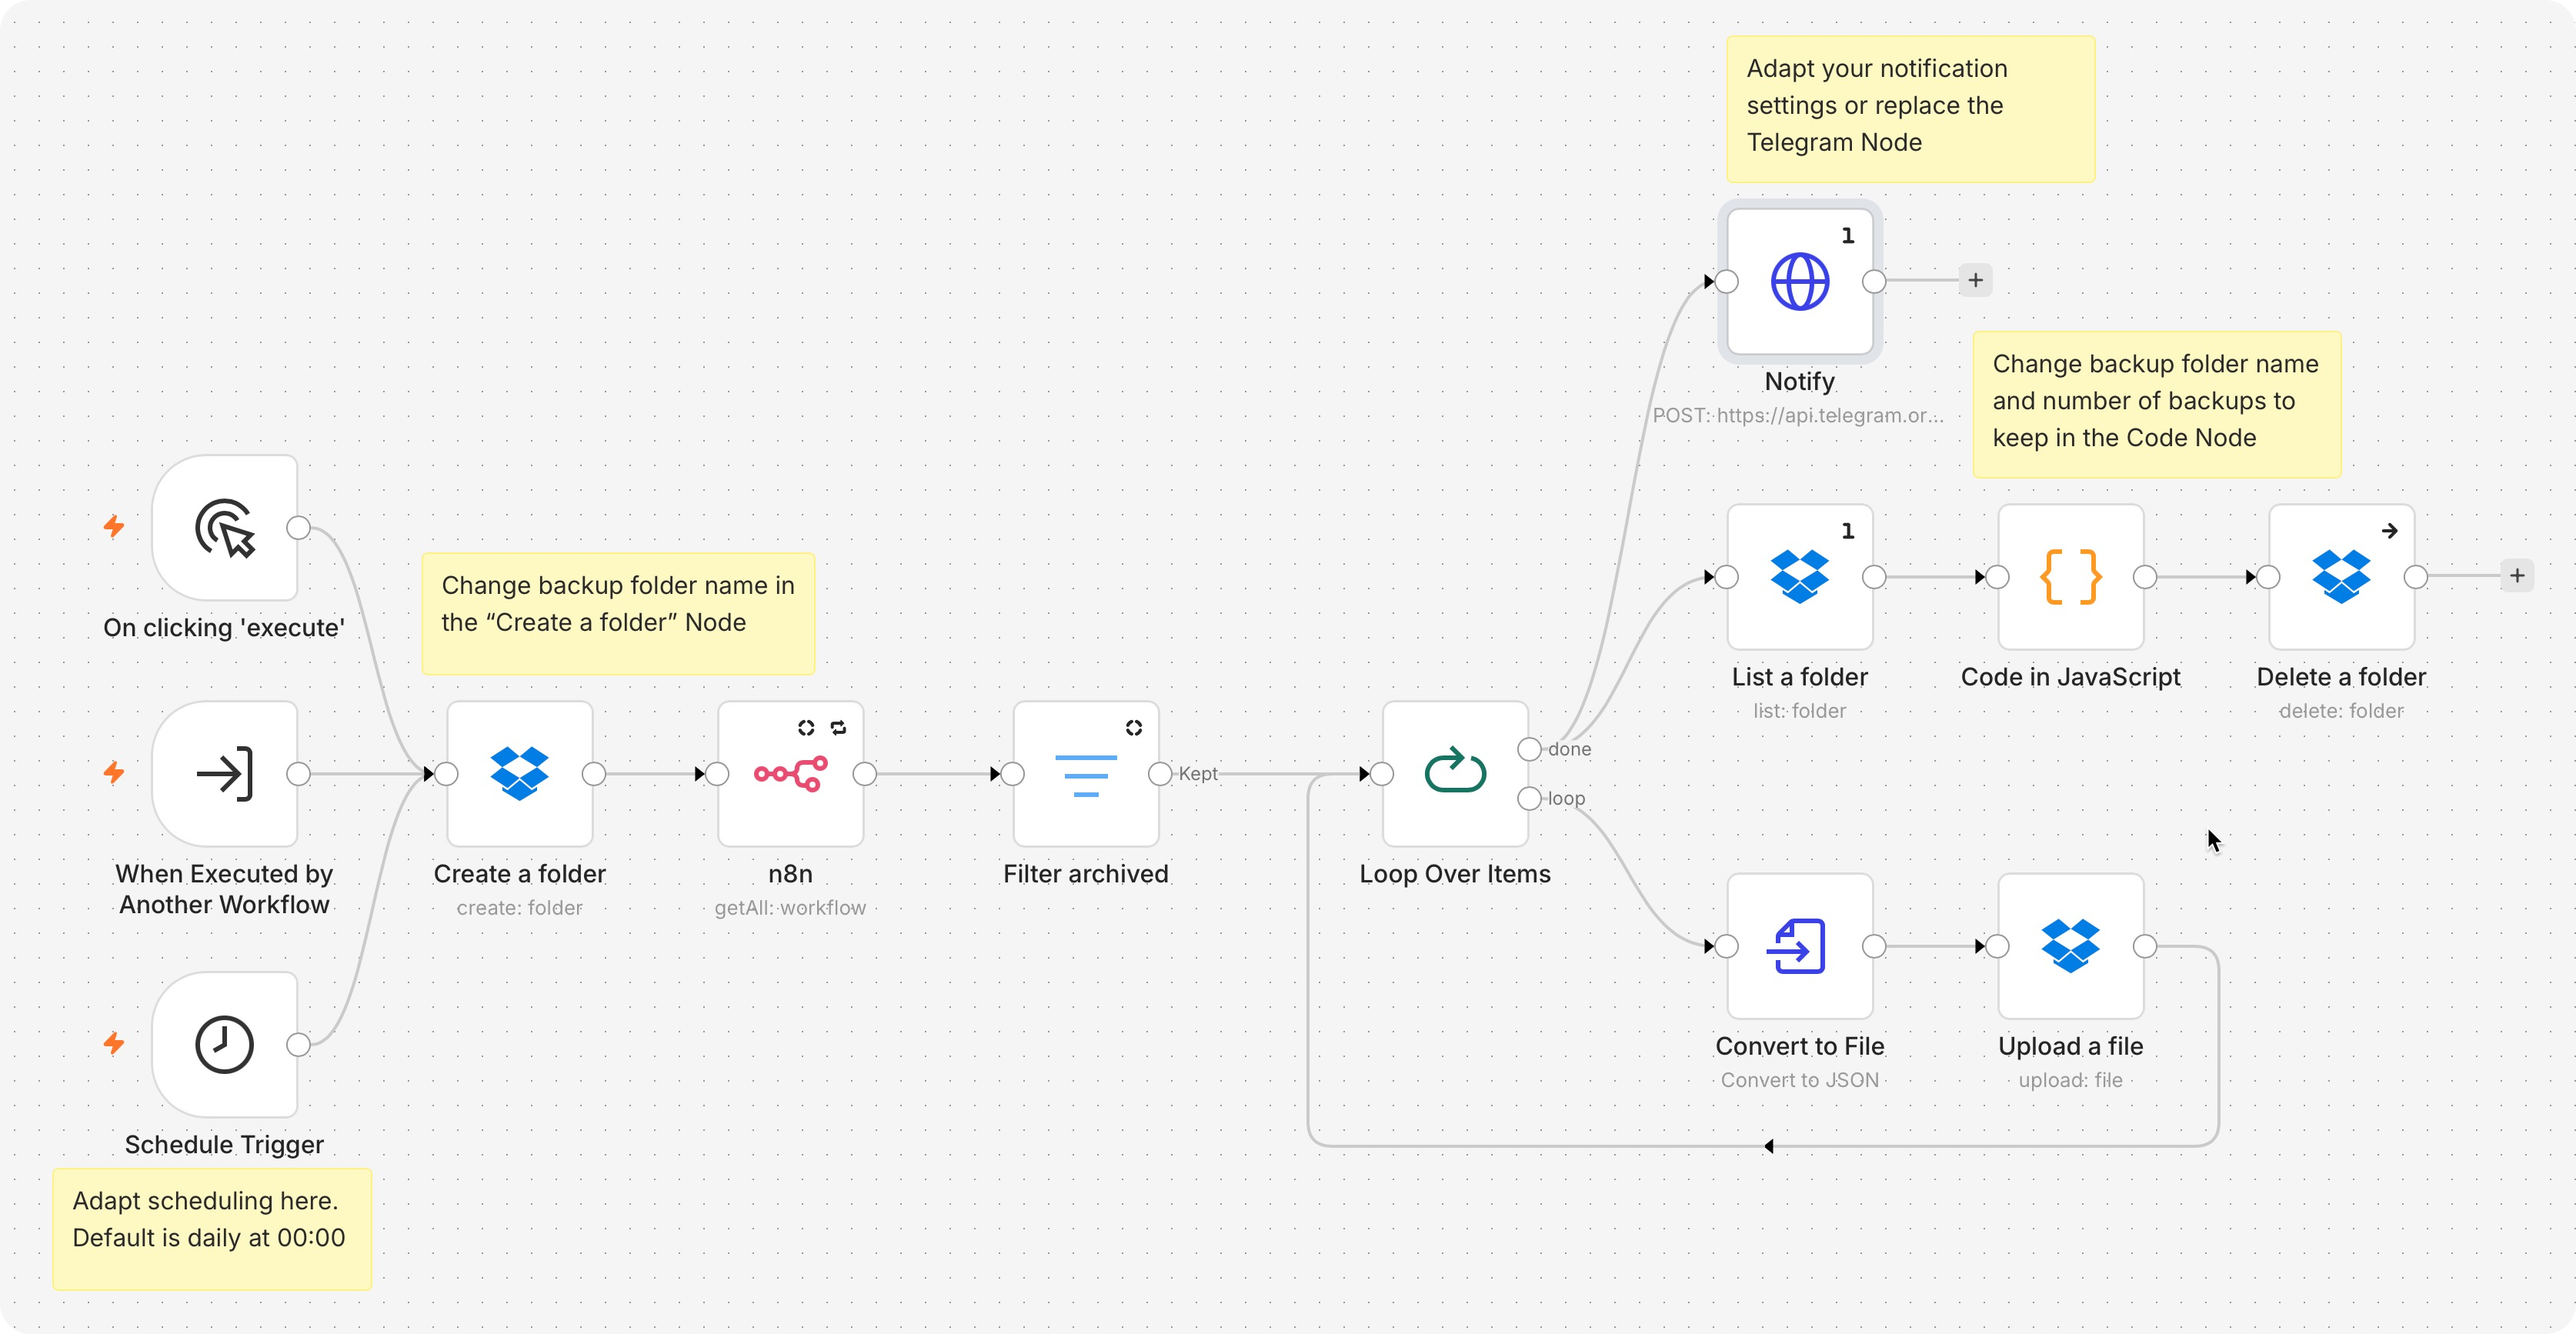
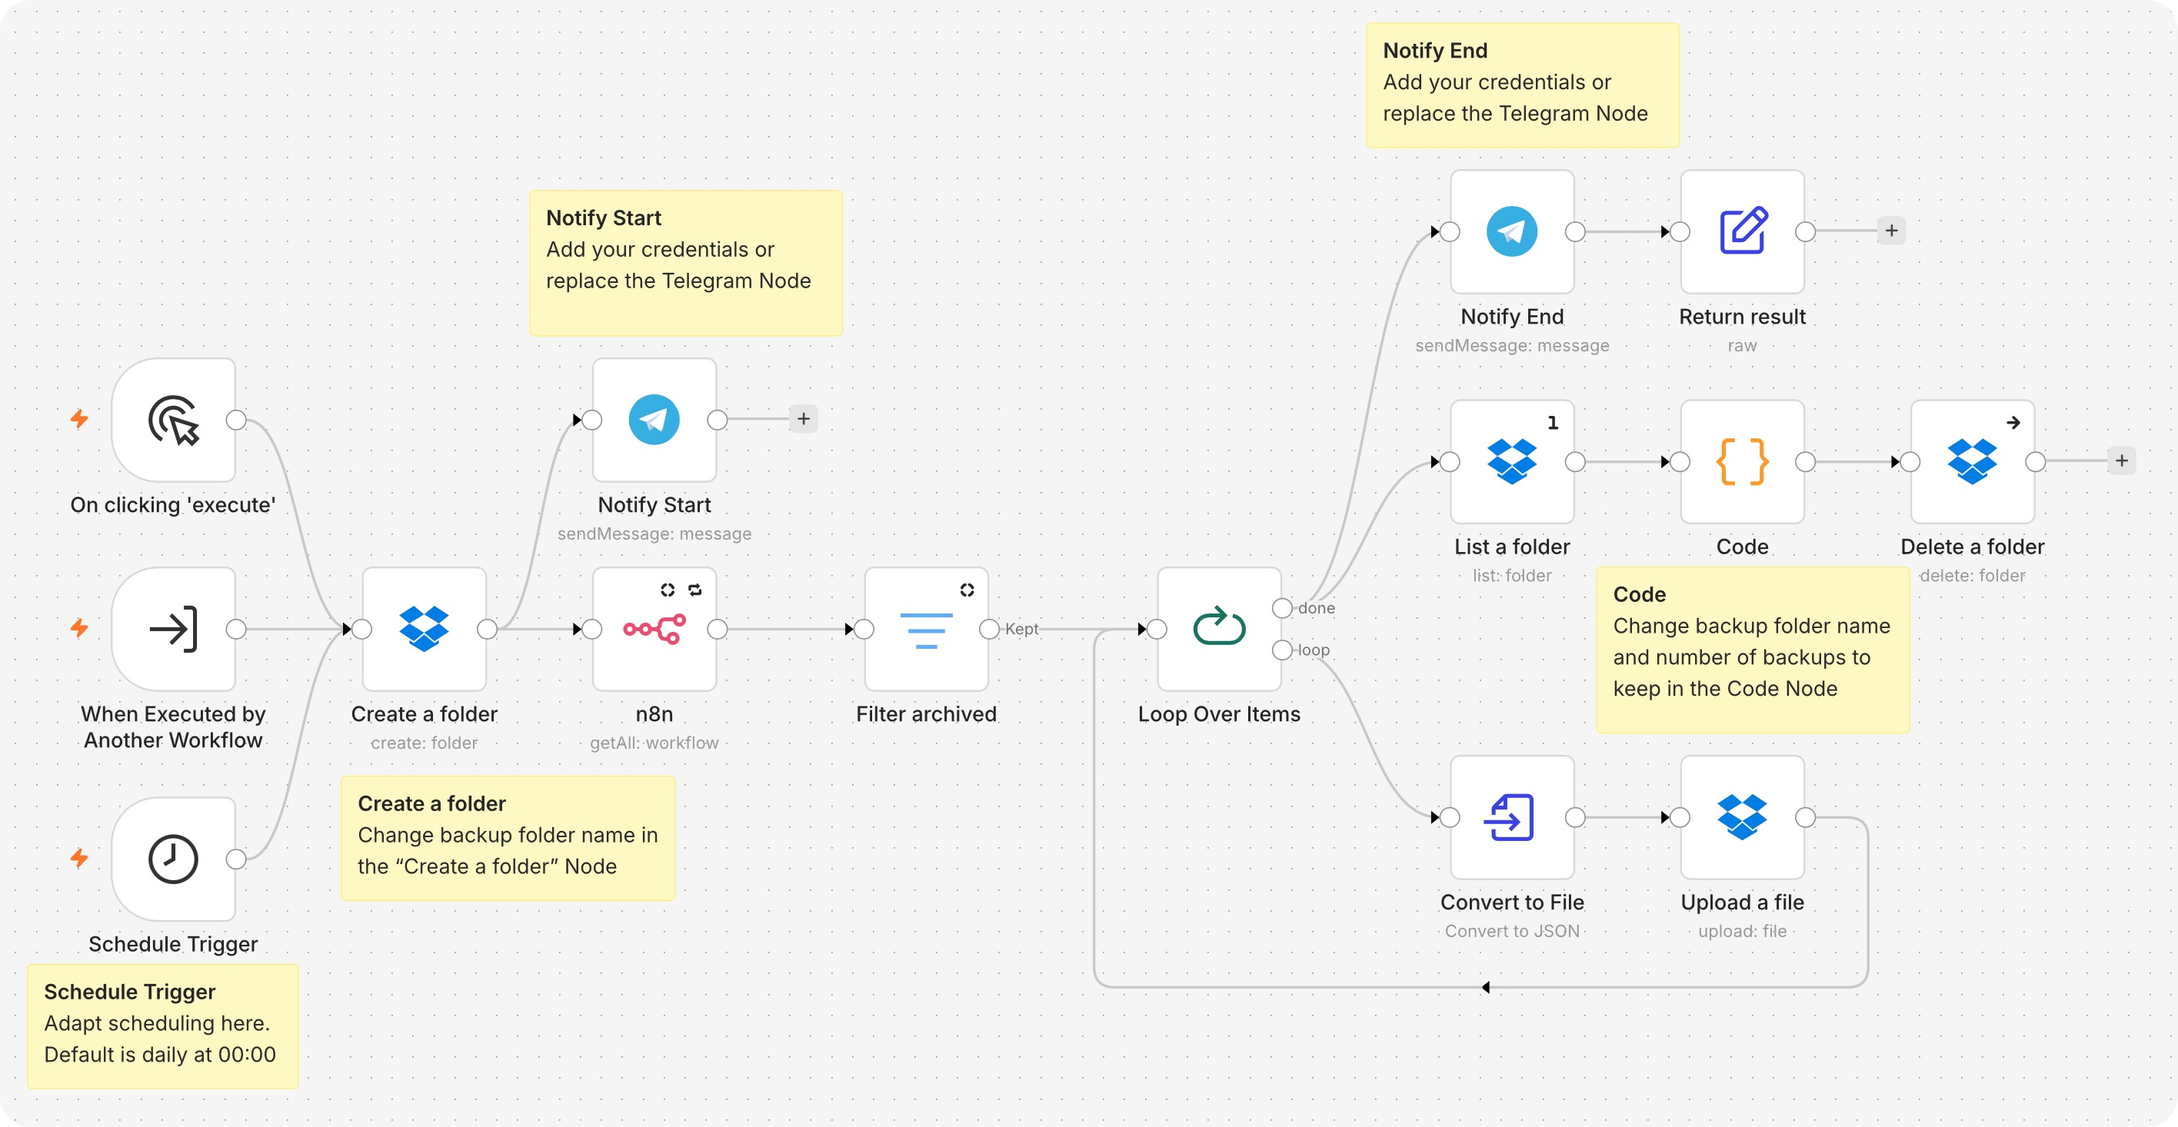
1.0.1

diff --git a/README.md b/README.md
@@ -14,14 +14,16 @@ Adpapt backup folder name
 ### Code in JavaScript
 Adapt the first 2 lines:
 ```js
-const KEEP = 7;  // Number of folders to keep
+const KEEP = 10;  // Number of folders to keep
 const FOLDER = "backup";  // Backup folder
 ```
-### Notify
-Add your Telegram Bot URL and chat_id
+### Notify Nodes
+Add your Telegram credentials and chat_id
 
 ## How it works
 All workflows are exported to a time stamped subfolder of the backup-folder.
 If the number of folders to keep is reached, the oldest folder is deleted.
 
 Star me, if you like it :-)
+
+**[More n8n Stuff here](https://marketmix.com/de/tag/n8n/)**
